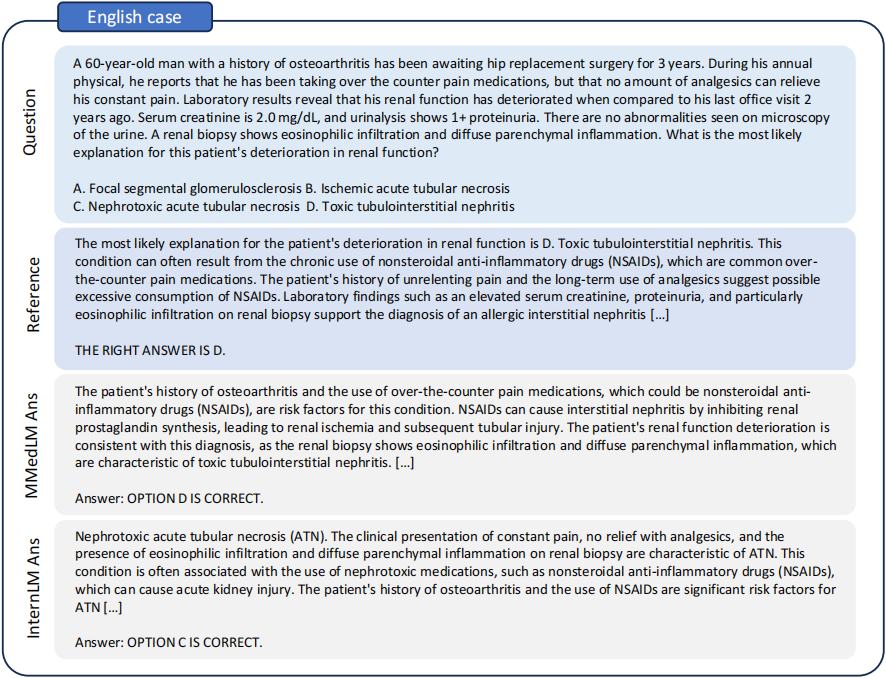
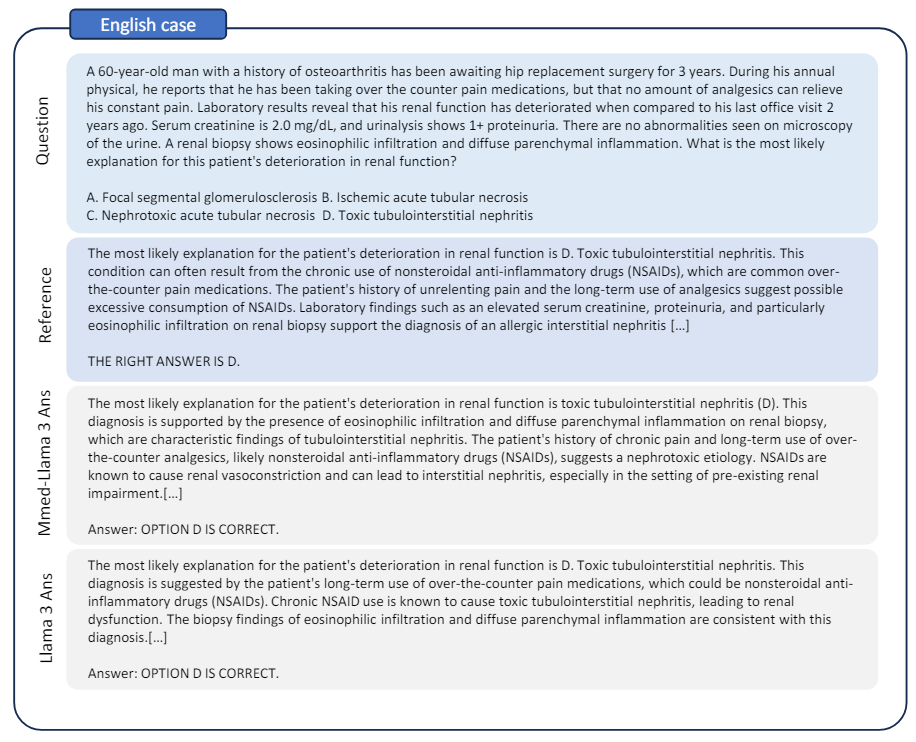
Update README

diff --git a/README.md b/README.md
@@ -123,9 +123,10 @@ Here we show the main results of models' performance on MMedBench. For more deta
 ### Case Study
 
 ![](assets/case1.png)
-- A case between InternLM and MMedLM. MMedLM demonstrates superior performance in selecting the correct option. Furthermore, MMedLM frequently justifies its choices with accurate reasons. MMedLM accurately diagnoses ‘eosinophilic infiltration in the renal biopsy,’ subsequently applying
-its domain knowledge to identify these findings as indicative of toxic tubulointerstitial nephritis, leading to a
-precise diagnosis. 
+- A case between Llama 3 and MMed-Llama 3. MMed-Llama 3 demonstrates superior performance in selecting the correct option. Furthermore, MMed-Llama 3 accurately diagnoses the presence of
+‘eosinophilic infiltration’ and ‘diffuse parenchymal inflammation on renal biopsy’, subsequently applying its
+domain knowledge to identify these findings as indicative of ‘tubulointerstitial nephritis’, leading to a precise
+diagnosis.
 
 
 ## Acknowledgement
